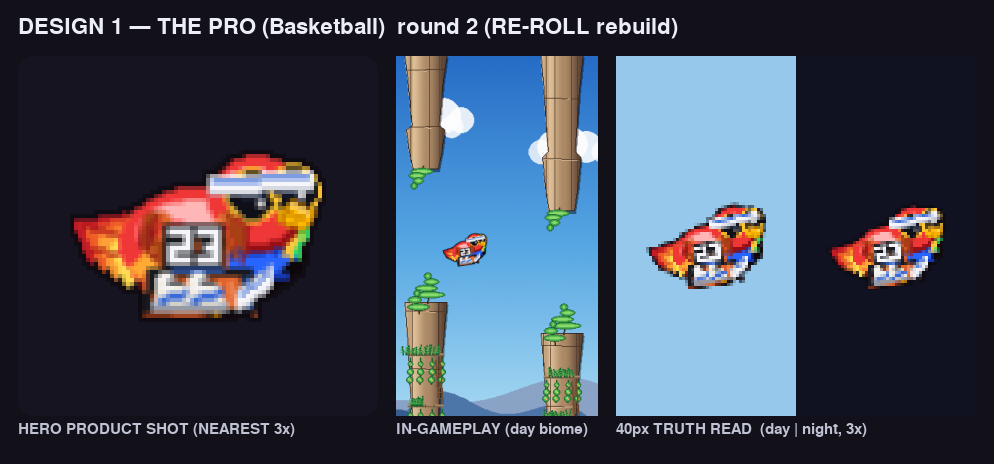
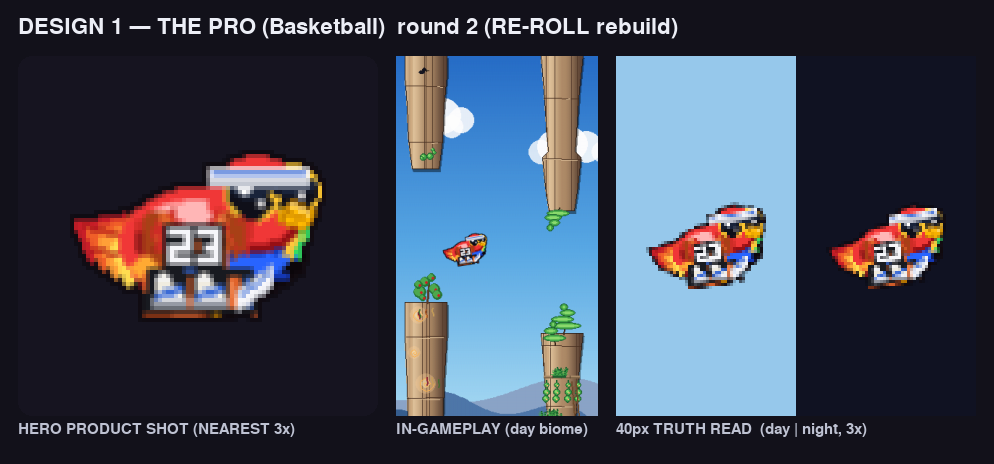
Rebuild basketball DESIGN 1 (THE PRO) for round-2 RE-ROLL
Round-1 read as an orange soccer jersey. Rebuilt around the four hoops
tells soccer lacks: a sleeveless tank narrower than the body with bright
scarlet bare-shoulder armhole scoops outside two thin straps; baggy knee
shorts under a hard black waistband break with a contrast side stripe and
a low visible hem; a blocky white "23" with negative-space gaps so the
digits stay legible; and two distinct chunky high-tops (contoured cream
boot + ankle-collar bump + grey rubber sole), never cleats. Headband
raised to the brow so it stops reading as shades.

Claude-Session: https://claude.ai/code/session_01HafGQfRZVDiGkQqpJPr5Cm

diff --git a/tools/basketball_candidates/design_1.py b/tools/basketball_candidates/design_1.py
@@ -80,16 +80,21 @@ def _paint(surf, _a):
     pygame.draw.line(surf, _BLACK, (BCX - 12, BCY + 16), (BCX - 1, BCY + 16), 1)
     pygame.draw.line(surf, _BLACK, (BCX + 2, BCY + 16), (BCX + 13, BCY + 16), 1)
 
-    # ── BARE SHOULDERS. Before the tank, paint a curved sliver of Pip's SCARLET
+    # ── BARE SHOULDERS. Before the tank, paint a BROAD wedge of Pip's SCARLET
     #    body at each shoulder root so that — once the NARROW tank panel lands
-    #    on top — scarlet is GUARANTEED to show OUTSIDE the straps at both
-    #    shoulders. This is the sleeveless tell and the #1 basketball read.
-    _poly(surf, _SCARLET, [(BCX - 14, BCY - 5), (BCX - 8, BCY - 8),
-                           (BCX - 6, BCY - 2), (BCX - 12, BCY + 1)])   # off shoulder
-    _poly(surf, _SCARLET, [(BCX + 13, BCY - 5), (BCX + 7, BCY - 8),
-                           (BCX + 5, BCY - 2), (BCX + 11, BCY + 1)])   # near shoulder
-    _poly(surf, _SCARLET_D, [(BCX - 14, BCY - 3), (BCX - 11, BCY - 4),
-                             (BCX - 10, BCY), (BCX - 13, BCY + 1)])
+    #    on top — scarlet is GUARANTEED to fill the armhole gap OUTSIDE the
+    #    straps at both shoulders. This is the sleeveless tell and the #1
+    #    basketball read, so the patches are drawn deliberately wide + bright.
+    _poly(surf, _SCARLET, [(BCX - 15, BCY - 6), (BCX - 6, BCY - 9),
+                           (BCX - 3, BCY - 1), (BCX - 13, BCY + 2)])   # off shoulder
+    _poly(surf, _SCARLET, [(BCX + 14, BCY - 6), (BCX + 5, BCY - 9),
+                           (BCX + 2, BCY - 1), (BCX + 12, BCY + 2)])   # near shoulder
+    # A brighter rounded cap on each so the bare shoulder reads as a curved
+    # deltoid, not a flat patch.
+    pygame.draw.circle(surf, _SCARLET, (BCX + 9, BCY - 4), 3)
+    pygame.draw.circle(surf, _SCARLET, (BCX - 10, BCY - 4), 3)
+    _poly(surf, _SCARLET_D, [(BCX - 15, BCY - 3), (BCX - 12, BCY - 4),
+                             (BCX - 11, BCY + 1), (BCX - 14, BCY + 2)])
 
     # ── SLEEVELESS TANK over the torso. The body panel is deliberately NARROW
     #    (~BCX-8 .. BCX+6) so it sits INSIDE the shoulders, leaving the scarlet
@@ -112,14 +117,14 @@ def _paint(surf, _a):
     pygame.draw.line(surf, _ORANGE, (BCX + 5, BCY - 5), (BCX + 7, BCY - 8), 3)   # near strap
     pygame.draw.line(surf, _ORANGE_H, (BCX + 5, BCY - 5), (BCX + 6, BCY - 7), 1)
 
-    # ── ARMHOLE SCOOPS — a curved arc scored into each side between the strap
-    #    and the body panel, so the bare-shoulder cut is EXPLICIT. The dark
-    #    orange arc + the scarlet behind it read as the open armhole even at
-    #    40px.
+    # ── ARMHOLE SCOOPS — carve an EXPLICIT scarlet sliver in the gap between
+    #    each strap and the tank's side panel, so the bare-shoulder cut is
+    #    unmistakable: bright scarlet inside, then a curved orange arc edging
+    #    the cut so it reads as a scooped armhole, not just exposed skin.
+    pygame.draw.line(surf, _SCARLET, (BCX + 8, BCY - 5), (BCX + 9, BCY + 1), 2)   # near gap
+    pygame.draw.line(surf, _SCARLET, (BCX - 9, BCY - 5), (BCX - 10, BCY + 1), 2)  # off gap
     pygame.draw.arc(surf, _ORANGE_D, (BCX + 4, BCY - 8, 9, 13), -1.2, 1.4, 2)   # near armhole
     pygame.draw.arc(surf, _ORANGE_D, (BCX - 13, BCY - 8, 9, 13), 1.7, 4.3, 2)   # off armhole
-    pygame.draw.arc(surf, _SCARLET_D, (BCX + 5, BCY - 7, 8, 12), -1.0, 1.2, 1)
-    pygame.draw.arc(surf, _SCARLET_D, (BCX - 12, BCY - 7, 8, 12), 1.9, 4.1, 1)
 
     # Black trim piping along the scoop neckline + the tank hem so the kit reads
     # sharp and the hem separates from the shorts waistband below.
@@ -141,22 +146,25 @@ def _paint(surf, _a):
     _draw_block_2(surf, BCX - 7, BCY - 4)
     _draw_block_3(surf, BCX, BCY - 4)
 
-    # ── CHUNKY HIGH-TOPS on the feet line. A cream leather boot with an ankle
-    #    COLLAR BUMP rising above a grey rubber SOLE slab + one accent stripe —
-    #    a basketball sneaker, never a cleat. Sits ON the feet line (~HY+21..27).
-    for fx in (26, 34):
+    # ── CHUNKY HIGH-TOPS on the feet line. Each is a cream leather boot with an
+    #    ankle COLLAR BUMP rising above a grey rubber SOLE slab + one accent
+    #    stripe — a basketball sneaker, never a cleat. A 1px dark contour around
+    #    every boot keeps the two feet from merging into one white blob, and the
+    #    collar bump rising above the sole is what reads "high-top". Sits ON the
+    #    feet line (~HY+18..27), never below it.
+    for fx in (25, 35):
+        # Dark contour box first so the boot reads as its own distinct shape.
+        pygame.draw.rect(surf, _BLACK, (fx - 4, HY + 17, 9, 11), border_radius=2)
         # Grey rubber sole slab — a thick flat base, the sneaker tell.
-        pygame.draw.rect(surf, _SOLE, (fx - 5, HY + 25, 11, 3), border_radius=1)
-        pygame.draw.line(surf, _WHITE_D, (fx - 5, HY + 25), (fx + 5, HY + 25), 1)
+        pygame.draw.rect(surf, _SOLE, (fx - 4, HY + 24, 9, 3))
         # Cream boot upper.
-        pygame.draw.rect(surf, _CREAM, (fx - 4, HY + 21, 9, 5), border_radius=2)
-        # Ankle COLLAR BUMP rising above the upper — the high-top tell.
-        pygame.draw.rect(surf, _CREAM, (fx - 4, HY + 18, 5, 5), border_radius=2)
-        pygame.draw.line(surf, _WHITE, (fx - 4, HY + 19), (fx, HY + 19), 1)
+        pygame.draw.rect(surf, _CREAM, (fx - 3, HY + 21, 7, 4), border_radius=1)
+        # Ankle COLLAR BUMP rising above the upper toward the leg — high-top tell.
+        pygame.draw.rect(surf, _CREAM, (fx - 3, HY + 18, 4, 4), border_radius=2)
+        pygame.draw.line(surf, _WHITE, (fx - 3, HY + 19), (fx, HY + 19), 1)  # collar glint
         # One accent stripe swooping across the upper + a black lace flash.
-        pygame.draw.line(surf, _ACCENT, (fx - 3, HY + 24), (fx + 4, HY + 22), 2)
-        pygame.draw.line(surf, _BLACK, (fx - 1, HY + 20), (fx + 2, HY + 20), 1)
-        pygame.draw.line(surf, _WHITE, (fx - 3, HY + 21), (fx, HY + 21), 1)  # toe glint
+        pygame.draw.line(surf, _ACCENT, (fx - 3, HY + 23), (fx + 3, HY + 21), 2)
+        pygame.draw.line(surf, _WHITE, (fx - 2, HY + 24), (fx + 3, HY + 24), 1)  # toe cap
 
     # ── WRISTBAND on the near wing — a bold white sweatband with a thin accent
     #    midline, clearly on the forearm.
@@ -165,13 +173,13 @@ def _paint(surf, _a):
     pygame.draw.line(surf, _WHITE, (wrx - 3, wry + 4), (wrx + 5, wry - 2), 4)
     pygame.draw.line(surf, _ACCENT, (wrx - 2, wry + 3), (wrx + 4, wry - 2), 1)
 
-    # ── THIN BROW HEADBAND across the brow — the iconic non-ball hoops cue. A
-    #    slim white band hugging the crown with a colored midline, leaving
-    #    Pip's eye + beak in the open below it.
-    by = CROWN_Y + 5
-    pygame.draw.line(surf, _WHITE_D, (HX - 12, by + 1), (HX + 13, by), 5)   # shadow
-    pygame.draw.line(surf, _WHITE, (HX - 12, by), (HX + 13, by - 1), 4)
-    pygame.draw.line(surf, _ACCENT, (HX - 11, by), (HX + 12, by - 1), 1)    # colored midline
+    # ── THIN BROW HEADBAND hugging the CROWN — the iconic non-ball hoops cue.
+    #    Kept HIGH (CROWN_Y+3) and slim (3px) so it sits ON the brow ABOVE the
+    #    eye, never sliding down over the eye where it would read as shades.
+    by = CROWN_Y + 3
+    pygame.draw.line(surf, _WHITE_D, (HX - 12, by + 1), (HX + 12, by + 1), 4)  # shadow
+    pygame.draw.line(surf, _WHITE, (HX - 12, by), (HX + 12, by), 3)
+    pygame.draw.line(surf, _ACCENT, (HX - 11, by), (HX + 11, by), 1)          # colored midline
 
 
 def _block_digit(surf, segs, x, y):
